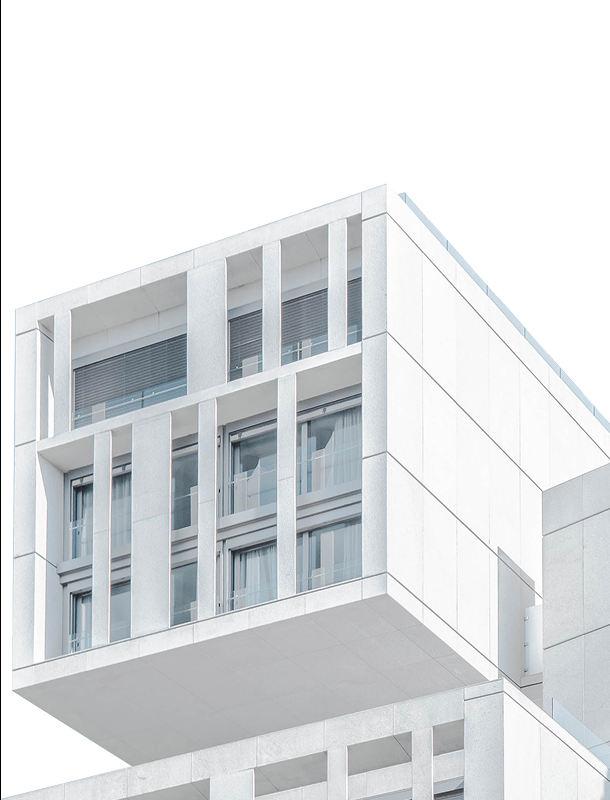
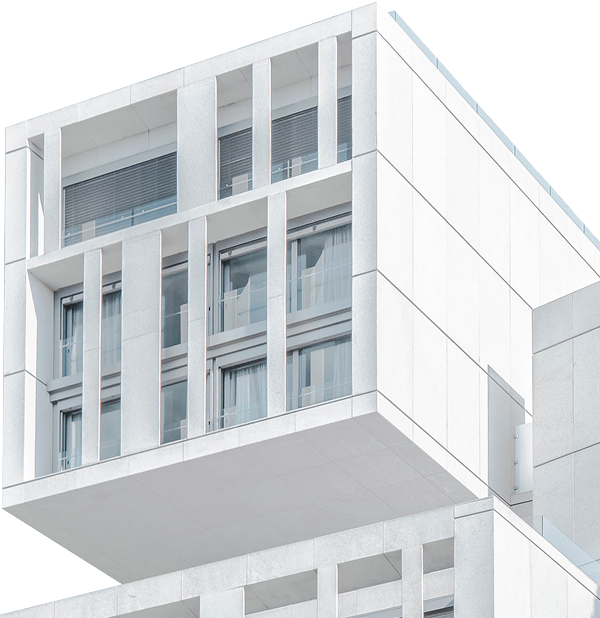
Added A Hero Section

diff --git a/style.css b/style.css
@@ -53,6 +53,40 @@ body {
 }
 
 /* ================== */
+/* Buttons */
+/* ================== */
+
+.project-button,
+.contact-button {
+    padding: clamp(8px, 1.4vw, 16px) clamp(14px, 1.8vw, 22px);
+    font-size: clamp(12px, 2vw, 14px);
+    cursor: pointer;
+    text-align: center;
+    border: 1px solid var(--secondary-color);
+    transition: all 0.3s ease-in-out;
+}
+
+.project-button {
+    background-color: var(--secondary-color);
+    color: var(--background-color);
+}
+
+.project-button:hover {
+    color: var(--secondary-color);
+    background-color: var(--primary-color);
+}
+
+.contact-button {
+    color: var(--secondary-color);
+    background-color: var(--primary-color);
+}
+
+.contact-button:hover {
+    background-color: var(--secondary-color);
+    color: var(--background-color);
+}
+
+/* ================== */
 /* Header Section*/
 /* ================== */
 header {
@@ -84,6 +118,12 @@ nav ul.nav-list {
     text-transform: uppercase;
 }
 
+ul.nav-list a:hover {
+    color: rgb(13, 23, 31);
+    font-weight: 500;
+    transition: all 0.3s ease-in-out;
+}
+
 
 /* ================== */
 /* Mobile Menu Icon */
@@ -109,11 +149,132 @@ nav ul.nav-list {
 }
 
 /* ================== */
+/* Hero Section */
+/* ================== */
+.hero-container {
+    display: flex;
+    justify-content: space-between;
+    padding-top: clamp(40px, 7.5vw, 100px);
+}
+
+/* Hero Content */
+.hero-content {
+    padding-bottom: clamp(30px, 8vw, 110px);
+    width: 57%;
+    display: flex;
+    flex-direction: column;
+    gap: 10px;
+}
+
+.hero-content h1 {
+    font-size: clamp(35px, 7vw, 90px);
+    font-family: "Mulish-Bold";
+    color: var(--secondary-color);
+}
+
+.hero-content p {
+    font-size: clamp(18px, 2vw, 20px);
+    color: var(--secondary-color);
+    line-height: 1.5;
+}
+
+.hero-buttons {
+    display: flex;
+    gap: 6%;
+    margin-top: 15px;
+}
+
+/* Hero Section Symbols */
+/* All are position with respect to main parent (Image Container)*/
+.hero-section-arrow,
+.hero-section-mark-1,
+.hero-section-mark-2 {
+    position: absolute;
+}
+
+.hero-section-mark-1 {
+    right: 33%;
+    top: -4%;
+}
+
+.hero-section-mark-2 {
+    top: 17%;
+    left: -4%;
+}
+
+.hero-section-arrow {
+    width: clamp(70px, 11vw, 170px);
+    top: 53%;
+    left: -30%;
+}
+
+/* Hero Image */
+.hero-image {
+    width: 55%;
+    align-self: stretch;
+    margin-right: -14.8%;
+    position: relative;
+}
+
+.hero-image img.hero-section-image {
+    width: 100%;
+    height: 100%;
+}
+
+/* ================== */
+/* Above Larger Screen */
+/* ================== */
+@media (min-width: 1441px) {
+
+    /* Hero Section */
+    .hero-content {
+        width: 50%;
+    }
+
+    .hero-section-arrow {
+        top: 54%;
+        left: -35%;
+    }
+
+    .hero-image {
+        width: 48%;
+        margin-right: 0;
+    }
+}
+
+/* ================== */
+/* From Tablet to large screen */
+/* ================== */
+@media (min-width: 769px) and (max-width: 1024px) {
+
+    /* Hero section */
+    .hero-content {
+        width: 52%;
+        align-self: center;
+    }
+
+    .hero-content h1 {
+        font-size: 6.4vw;
+    }
+
+    .hero-section-arrow {
+        width: 8vw;
+        top: 60%;
+        left: -18%;
+    }
+
+    .hero-image {
+        width: 60%;
+    }
+}
+
+
+/* ================== */
 /* From Tablet to Smaller Screen */
 /* ================== */
 @media (max-width: 768px) {
 
-    /* Header */
+    /* Header  */
     /* Menu */
     .menu-icon {
         display: flex;
@@ -157,7 +318,6 @@ nav ul.nav-list {
     nav.nav-container ul.nav-list {
         flex-direction: column;
         gap: 40px;
-
     }
 
     /* Show Menu When Toggled */
@@ -168,4 +328,40 @@ nav ul.nav-list {
         visibility: visible;
     }
 
+    /* Hero Section */
+    .hero-container {
+        flex-direction: column;
+    }
+
+    .hero-content {
+        width: 100%;
+    }
+
+    .hero-image {
+        display: flex;
+        width: 90%;
+        margin-left: 25%;
+
+    }
+
+    .hero-section-arrow {
+        display: none;
+    }
+
+    .hero-section-mark-1,
+    .hero-section-mark-2 {
+        width: 3vw;
+    }
+}
+
+/* ================== */
+/* From Small to Smaller Screen */
+/* ================== */
+@media (max-width: 425px) {
+
+    /* Hero Section */
+    .hero-image {
+        width: 120%;
+        margin: 0%;
+    }
 }

diff --git a/index.html b/index.html
@@ -46,6 +46,30 @@
                 </ul>
             </nav>
         </div>
+
+        <!-- Hero Section -->
+        <section class="container hero-section">
+            <div class="hero-container">
+                <div class="hero-content">
+                    <h1>Where Every Brick Holds Your Dream</h1>
+                    <p>Shaping home from your imagination</p>
+
+                    <div class="hero-buttons">
+                        <a href="#projects"><button class="project-button">Explore Project</button></a>
+                        <a href="#contact"><button class="contact-button">Get In Touch</button></a>
+                    </div>
+                </div>
+
+                <div class="hero-image">
+                    <img class="hero-section-mark-1" src="assets/images/hero-section-mark-1.png" alt="">
+                    <img class="hero-section-mark-2" src="assets/images/hero-section-mark-2.png" alt="">
+                    <img class="hero-section-arrow" src="assets/images/hero-section-arrow.png" alt="">
+                    <img class="hero-section-image" src="assets/images/hero-section-image-1.png"
+                        alt="A white architectural Building">
+                </div>
+            </div>
+
+        </section>
     </header>
 </body>
 
